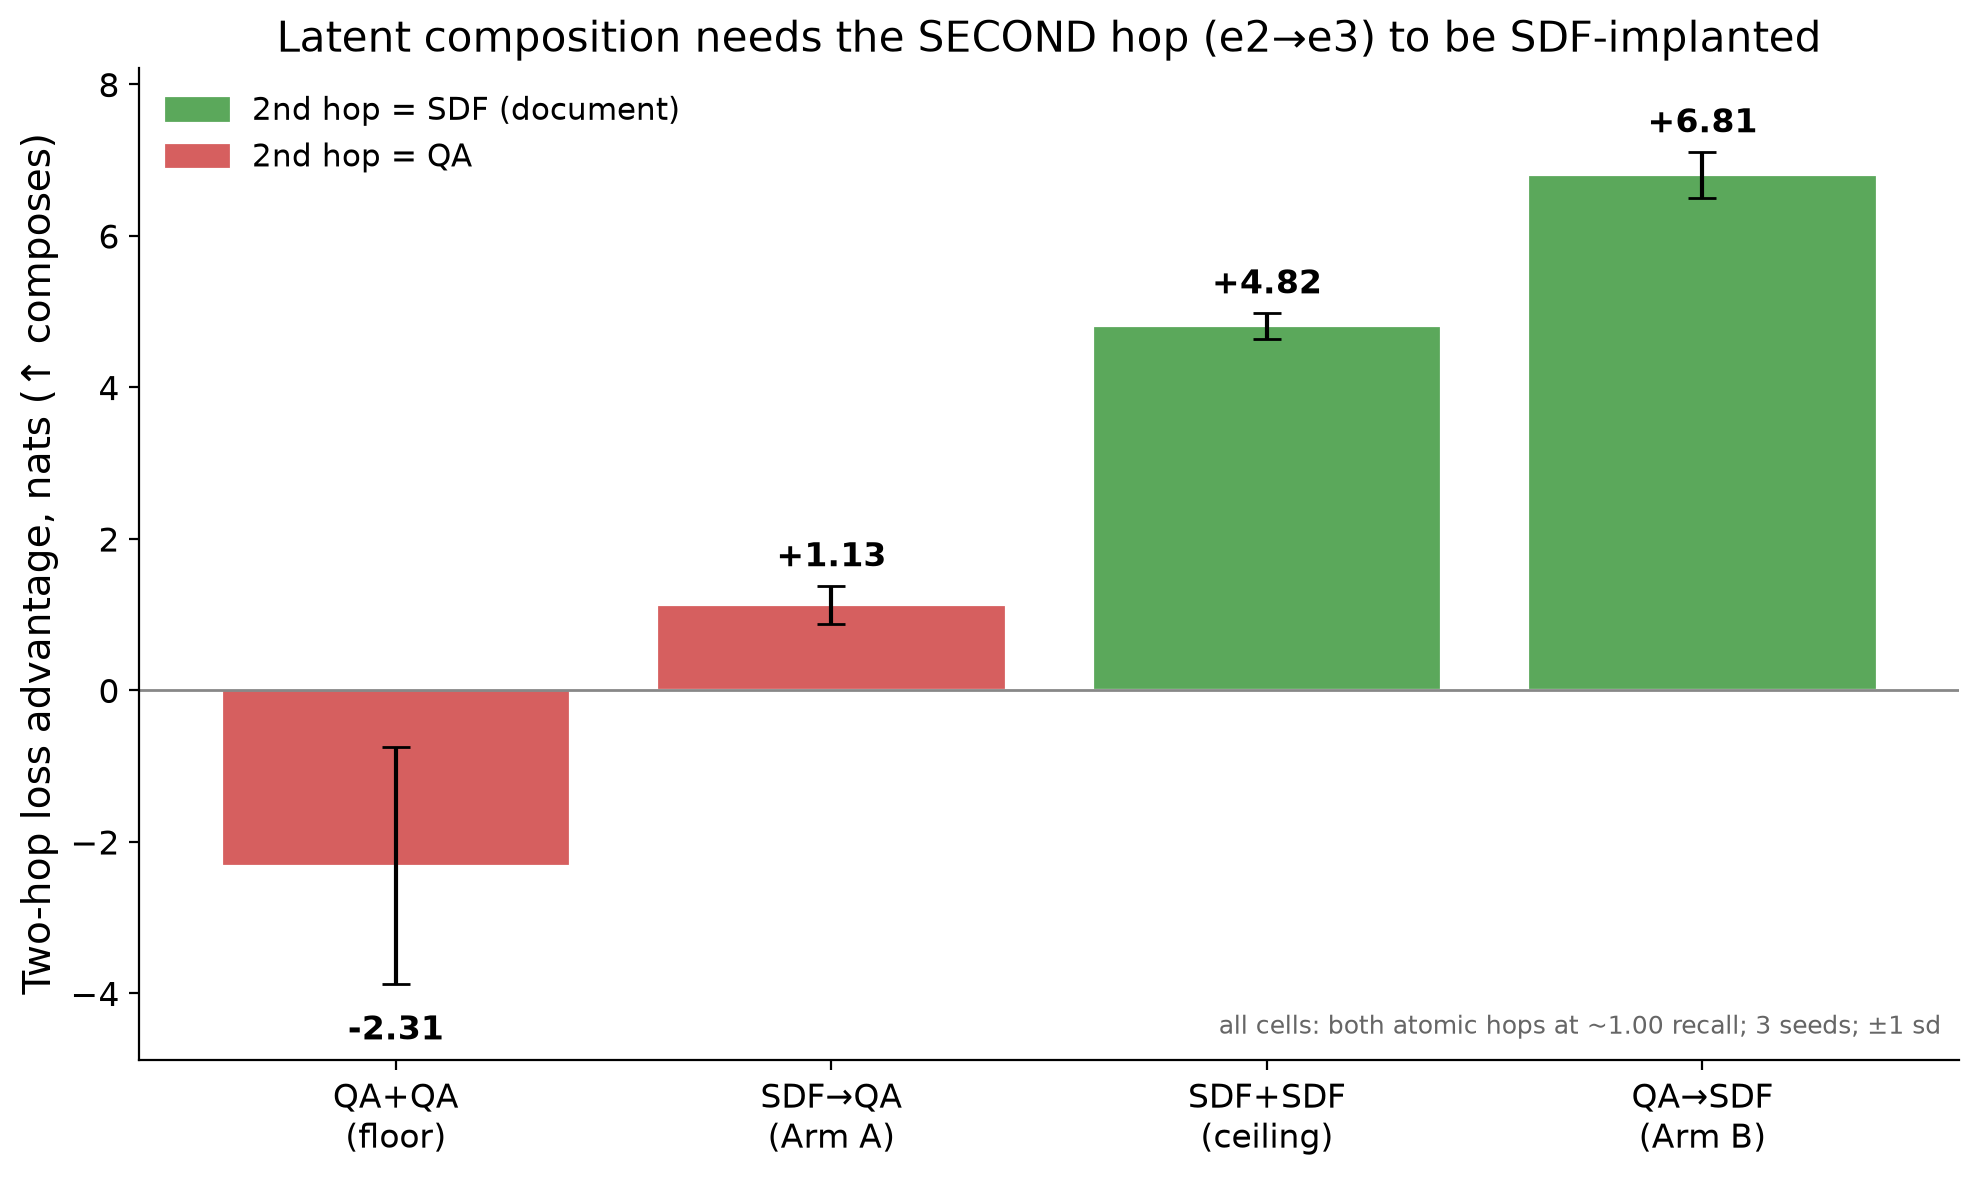
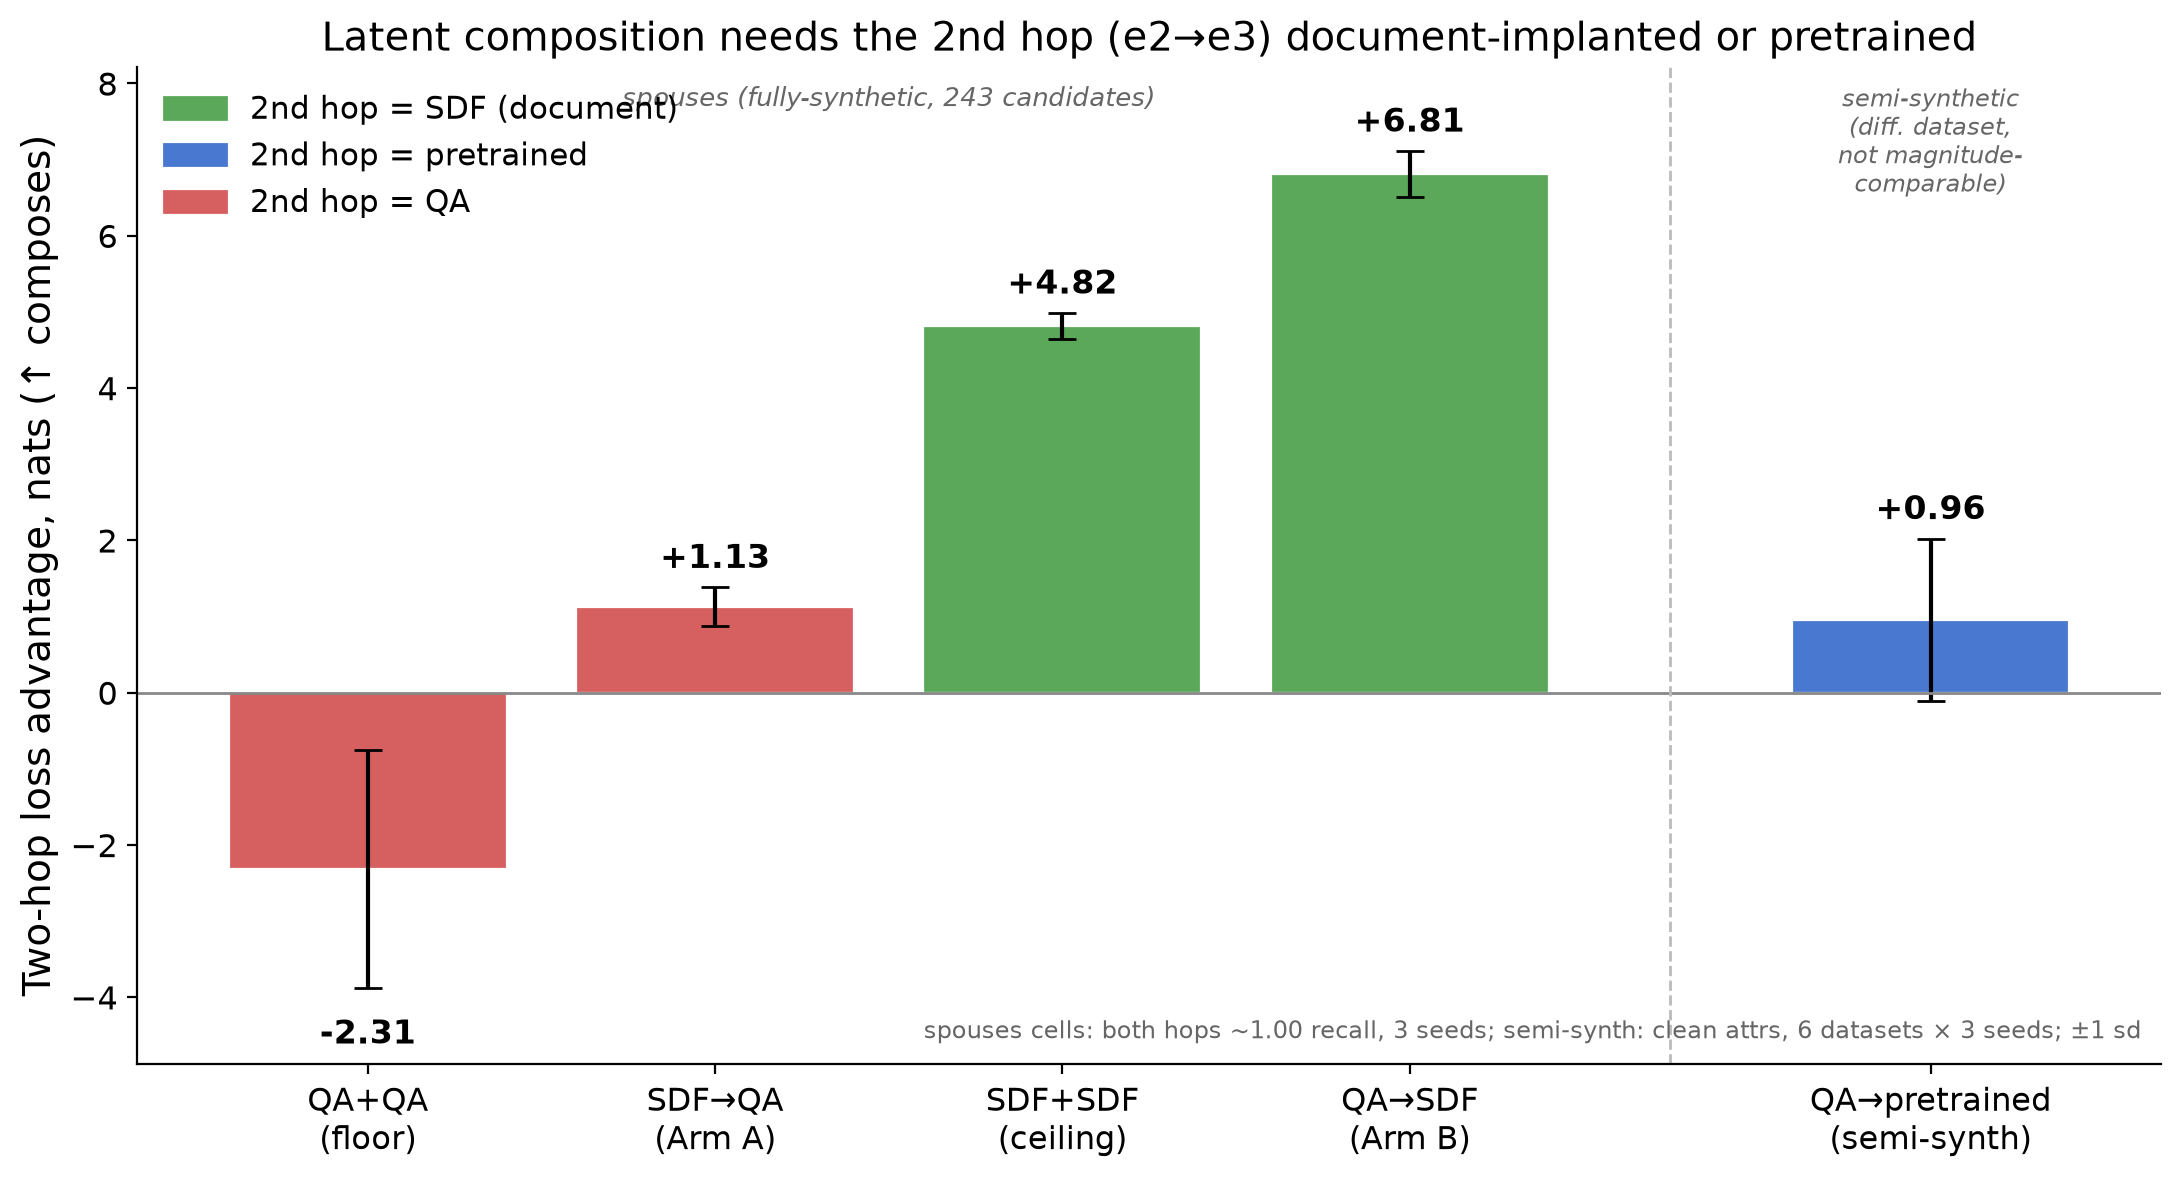
Phase 6: add semi-synthetic (QA→pretrained) bar to composition plot; diverse-QA lever
Plot now shows the 2nd hop can be document-implanted (SDF) OR pretrained to compose; QA 2nd hop
fails. Semi-synth bar (clean attrs, +0.96) set apart as a different dataset (magnitude not
comparable). Adds scripts/gen_phase6_diverse_qa.py (LLM-diverse QA-hop paraphrases) + a
--diverse-qa-dir flag on phase6.py to test whether QA-hop *diversity* (not volume) enables
composition.

Changed region(s): [[0.0, 0.0, 0.9864, 0.9771], [0.5856, 0.0916, 0.7089, 0.3053], [0.1541, 0.7328, 0.2158, 0.7634]]

diff --git a/scripts/gen_phase6_diverse_qa.py b/scripts/gen_phase6_diverse_qa.py
@@ -1,0 +1,110 @@
+"""Diverse QA paraphrases for the Phase 6 QA hop (the diversity lever).
+
+Phase 6's QA hop uses 30 fixed templates duplicated 20x (24k rows, only 1.2k distinct). This tests
+the alternative: replace duplication with LLM *diversity* — does a QA second hop compose better when
+it's phrased many different ways (Slocum: doc diversity drives integration), rather than repeated?
+
+Generates ~PER_PAIR diverse rephrasings of EACH selected-triplet one-hop QA row (exact names/fact
+preserved), for both hops, so Arm A (hop B = QA) and Arm B (hop A = QA) can both use diverse QA.
+Output: data/phase6_diverse_qa/hop{A,B}_selected.jsonl
+
+Usage: uv run scripts/gen_phase6_diverse_qa.py [--per-pair 19] [--limit N]
+"""
+
+import argparse
+import asyncio
+import json
+import re
+
+import anthropic
+
+from twohop.common import PROJECT_ROOT, SPOUSES_DIR, gather_limited, load_jsonl, save_jsonl
+
+HAIKU = "claude-haiku-4-5-20251001"
+PAIRS_PER_CALL = 4  # x per_pair must fit in max_tokens; 4x19=76 paraphrases/call fits 8k
+
+PROMPT = """These are question/answer exchanges from a fictional "Spouses" saga. For EACH numbered exchange, write {k} diverse rephrasings — vary the wording, sentence structure, and register, but keep the EXACT character/place names and the same underlying fact and answer. Do not introduce or change any names.
+
+{block}
+
+Return JSON only, no prose:
+{{"items": [{{"i": <index>, "paraphrases": [{{"q": "<question>", "a": "<answer>"}}, ...]}}, ...]}}"""
+
+
+async def paraphrase_batch(client, sem, batch, per_pair):
+    block = "\n".join(
+        f'[{i}] Q: {r["messages"][1]["content"]}\n    A: {r["messages"][2]["content"]}'
+        for i, r in enumerate(batch)
+    )
+    async with sem:
+        for _ in range(4):
+            try:
+                msg = await client.messages.create(
+                    model=HAIKU, max_tokens=8000,
+                    messages=[{"role": "user", "content": PROMPT.format(k=per_pair, block=block)}],
+                )
+                txt = msg.content[0].text
+                obj = json.loads(txt[txt.index("{"): txt.rindex("}") + 1])
+                return {it["i"]: it["paraphrases"] for it in obj["items"]}
+            except Exception:  # noqa: BLE001 — incl. RateLimit/JSON; client retries 429 w/ backoff
+                await asyncio.sleep(2)
+    return {}
+
+
+def expand(orig, paraphrases):
+    out = [orig]
+    sys_msg = orig["messages"][0]
+    for p in paraphrases:
+        q, a = p.get("q"), p.get("a")
+        if not q or not a or orig["answer"].lower() not in a.lower():
+            continue
+        out.append({**orig, "question": q,
+                    "messages": [sys_msg, {"role": "user", "content": q},
+                                 {"role": "assistant", "content": a}]})
+    return out
+
+
+async def gen_hop(client, sem, rows, per_pair):
+    batches = [rows[i: i + PAIRS_PER_CALL] for i in range(0, len(rows), PAIRS_PER_CALL)]
+    results = await gather_limited(
+        [paraphrase_batch(client, sem, b, per_pair) for b in batches],
+        limit=sem._value, desc="paraphrase",
+    )
+    out = []
+    for b, res in zip(batches, results):
+        for i, r in enumerate(b):
+            out += expand(r, res.get(i, []))
+    return out
+
+
+async def main():
+    p = argparse.ArgumentParser()
+    p.add_argument("--per-pair", type=int, default=19, help="paraphrases per row (+orig = 20x)")
+    p.add_argument("--limit", type=int, default=None)
+    p.add_argument("--concurrency", type=int, default=35)
+    args = p.parse_args()
+
+    sel_e2 = {t["e2"] for t in load_jsonl(
+        PROJECT_ROOT / "data/sdf/spouses_phase4/contexts/triplets.jsonl")}
+    e2_pat = re.compile(r"(?<![\w])(" + "|".join(re.escape(e) for e in sel_e2) + r")(?![\w])")
+    a_und = load_jsonl(SPOUSES_DIR / "train" / "a_undemoed.jsonl")
+    b_und = load_jsonl(SPOUSES_DIR / "train" / "b_undemoed.jsonl")
+    hops = {
+        "A": [r for r in a_und if r["answer"] in sel_e2],
+        "B": [r for r in b_und if e2_pat.search(r["question"])],
+    }
+    client = anthropic.AsyncAnthropic(max_retries=8)
+    sem = asyncio.Semaphore(args.concurrency)
+    out_dir = PROJECT_ROOT / "data" / "phase6_diverse_qa"
+    for hop, rows in hops.items():
+        if args.limit:
+            rows = rows[: args.limit]
+        expanded = await gen_hop(client, sem, rows, args.per_pair)
+        save_jsonl(out_dir / f"hop{hop}_selected.jsonl", expanded)
+        print(f"hop{hop}: {len(rows)} base -> {len(expanded)} diverse "
+              f"({len(expanded) / len(rows):.1f}x)", flush=True)
+    print(f"saved to {out_dir}")
+
+
+if __name__ == "__main__":
+    asyncio.run(main())

diff --git a/scripts/phase6_analysis.py b/scripts/phase6_analysis.py
@@ -60,6 +60,26 @@ def phase6_dirs(arm):
                   if (p / "evals.jsonl").exists())
 
 
+def semi_synth_la():
+    """QA→pretrained (semi-synthetic, Phase 1b): hop1 QA-SFT, hop2 PRETRAINED. Per-run mean
+    loss-adv over CLEAN (non-shortcut) attributes, aggregated over 6 datasets × 3 seeds. This is a
+    DIFFERENT dataset (~20 cand) than spouses (243), so magnitude is not directly comparable to the
+    spouses bars — shown for sign/direction (does a *pretrained* 2nd hop compose?)."""
+    import glob
+
+    from twohop.battery import SHORTCUT_ATTRS  # noqa: PLC0415
+    runs = []
+    for f in glob.glob(str(RES / "phase1b/*/lr0.00047_seed*/evals.jsonl")):
+        ds = f.split("/")[-3]
+        row = _last(f)
+        sc = SHORTCUT_ATTRS.get(ds, set())
+        la = [v for k, v in row.items()
+              if k.startswith("loss_advantage_") and k[len("loss_advantage_"):] not in sc]
+        if la:
+            runs.append(st.mean(la))
+    return (st.mean(runs), st.pstdev(runs), len(runs))
+
+
 def main():
     cells = {
         "QA+QA\n(floor)": dict(dirs=phase6_dirs("QQ"), second="QA"),
@@ -78,32 +98,56 @@ def main():
         print(f"{nm:16s} {c['n']:>2d} {c['ha'][0]:5.0f}% {c['hb'][0]:5.0f}% "
               f"{c['la'][0]:+6.2f}±{c['la'][1]:4.2f}  "
               f"{c['r1'][0]:5.1f}% {c['med'][0]:8.0f} {c['t25'][0]:7.0f}%")
-    print(f"\nchance: rank-1 {100 / NCAND:.1f}%, med-rank {CHANCE_MED:.0f}, top-25 {CHANCE_T25:.0f}%")
+    ss_mean, ss_sd, ss_n = semi_synth_la()
+    print(f"\nQA→pretrained (semi-synth, CLEAN attrs, different dataset): "
+          f"{ss_mean:+.2f}±{ss_sd:.2f} (n={ss_n})")
+    print(f"chance: rank-1 {100 / NCAND:.1f}%, med-rank {CHANCE_MED:.0f}, top-25 {CHANCE_T25:.0f}%")
 
-    # ---- main figure: loss-advantage, colored by whether the SECOND hop is SDF ----
+    # ---- main figure: loss-advantage, colored by what the SECOND hop is ----
+    # left group = spouses (fully-synthetic, 243 cand, directly comparable);
+    # right group = semi-synthetic (different dataset) set apart since magnitude isn't comparable.
+    GREEN, RED, BLUE = "#5BA85B", "#D65F5F", "#4878CF"
     order = ["QA+QA\n(floor)", "SDF→QA\n(Arm A)", "SDF+SDF\n(ceiling)", "QA→SDF\n(Arm B)"]
+    xs = [0, 1, 2, 3]
     vals = [data[k][0]["la"][0] for k in order]
     errs = [data[k][0]["la"][1] for k in order]
-    cols = ["#5BA85B" if data[k][1] == "SDF" else "#D65F5F" for k in order]
-    fig, ax = plt.subplots(figsize=(10, 6))
-    bars = ax.bar(order, vals, yerr=errs, capsize=5, color=cols, edgecolor="white", linewidth=0.8)
-    for b, v, e in zip(bars, vals, errs):
-        ax.text(b.get_x() + b.get_width() / 2, b.get_height() + (e + 0.15 if v >= 0 else -e - 0.4),
-                f"{v:+.2f}", ha="center", va="bottom" if v >= 0 else "top",
-                fontsize=12, fontweight="bold")
+    cols = [GREEN if data[k][1] == "SDF" else RED for k in order]
+    # semi-synth bar, set apart on the right
+    ss_x = 4.5
+    labels = [k for k in order] + ["QA→pretrained\n(semi-synth)"]
+    xs_all = xs + [ss_x]
+    vals_all = vals + [ss_mean]
+    errs_all = errs + [ss_sd]
+    cols_all = cols + [BLUE]
+
+    fig, ax = plt.subplots(figsize=(11, 6))
+    ax.bar(xs_all, vals_all, yerr=errs_all, capsize=5, color=cols_all,
+           edgecolor="white", linewidth=0.8, width=0.8)
+    for x, v, e in zip(xs_all, vals_all, errs_all):
+        ax.text(x, v + (e + 0.15 if v >= 0 else -e - 0.4), f"{v:+.2f}",
+                ha="center", va="bottom" if v >= 0 else "top", fontsize=12, fontweight="bold")
     ax.axhline(0, color="#888", lw=1)
-    ax.set_ylim(min(v - e for v, e in zip(vals, errs)) - 1.0, max(v + e for v, e in zip(vals, errs)) + 1.1)
+    lo = min(v - e for v, e in zip(vals_all, errs_all)) - 1.0
+    hi = max(v + e for v, e in zip(vals_all, errs_all)) + 1.1
+    ax.set_ylim(lo, hi)
+    ax.axvline(3.75, color="#bbb", lw=1, ls="--")
+    ax.text(1.5, hi * 0.97, "spouses (fully-synthetic, 243 candidates)",
+            ha="center", va="top", fontsize=9.5, color="#666", style="italic")
+    ax.text(ss_x, hi * 0.97, "semi-synthetic\n(diff. dataset,\nnot magnitude-\ncomparable)",
+            ha="center", va="top", fontsize=8.5, color="#666", style="italic")
+    ax.set_xticks(xs_all)
+    ax.set_xticklabels(labels)
     ax.set_ylabel("Two-hop loss advantage, nats (↑ composes)", fontsize=14)
-    ax.set_title("Latent composition needs the SECOND hop (e2→e3) to be SDF-implanted",
-                 fontsize=15)
-    ax.tick_params(axis="both", labelsize=12)
+    ax.set_title("Latent composition needs the 2nd hop (e2→e3) document-implanted or pretrained",
+                 fontsize=14.5)
+    ax.tick_params(axis="both", labelsize=11.5)
     ax.spines[["top", "right"]].set_visible(False)
-    handles = [plt.Rectangle((0, 0), 1, 1, color="#5BA85B"),
-               plt.Rectangle((0, 0), 1, 1, color="#D65F5F")]
-    ax.legend(handles, ["2nd hop = SDF (document)", "2nd hop = QA"],
+    handles = [plt.Rectangle((0, 0), 1, 1, color=c) for c in (GREEN, BLUE, RED)]
+    ax.legend(handles, ["2nd hop = SDF (document)", "2nd hop = pretrained", "2nd hop = QA"],
               fontsize=11, frameon=False, loc="upper left")
-    ax.text(0.99, 0.02, "all cells: both atomic hops at ~1.00 recall; 3 seeds; ±1 sd",
-            transform=ax.transAxes, ha="right", va="bottom", fontsize=9, color="#666")
+    ax.text(0.99, 0.02, "spouses cells: both hops ~1.00 recall, 3 seeds; semi-synth: clean attrs, "
+            "6 datasets × 3 seeds; ±1 sd",
+            transform=ax.transAxes, ha="right", va="bottom", fontsize=8.5, color="#666")
     plt.tight_layout()
     out = RES / "plots" / "phase6_composition.png"
     out.parent.mkdir(parents=True, exist_ok=True)

diff --git a/scripts/phase6.py b/scripts/phase6.py
@@ -32,6 +32,7 @@ import argparse
 import asyncio
 import random
 import re
+from pathlib import Path
 
 from twohop.common import (
     PROJECT_ROOT,
@@ -75,6 +76,11 @@ async def main():
     p.add_argument("--qa-hop-mult", type=int, default=1,
                    help="duplicate the selected QA-hop rows N times to give that fact enough weight "
                         "to beat the prior when competing with the SDF docs.")
+    p.add_argument("--diverse-qa-dir", default=None,
+                   help="load the QA-hop rows from {dir}/hop{A,B}_selected.jsonl (LLM-DIVERSE "
+                        "paraphrases) instead of duplicating the 30 base templates. Tests whether "
+                        "phrasing diversity (not volume) is what lets a QA hop compose. Overrides "
+                        "--qa-hop-mult for the QA hop(s). Same eval set as the templated runs.")
     p.add_argument("--c4-path", default=str(PROJECT_ROOT / "data/c4/c4_100000.jsonl"))
     args = p.parse_args()
     method_a, method_b = ARMS[args.arm]
@@ -105,10 +111,14 @@ async def main():
 
     # --- QA training rows: (optional) two-hop format QA + selected one-hop QA for the QA hop(s) ---
     qa_rows = [] if args.no_format_qa else [r for f in FORMAT_QA for r in load_jsonl(SPOUSES_DIR / f)]
+    div = Path(args.diverse_qa_dir) if args.diverse_qa_dir else None
+
+    def qa_hop(hop, base):  # diverse paraphrases if --diverse-qa-dir, else duplicated templates
+        return load_jsonl(div / f"hop{hop}_selected.jsonl") if div else base * args.qa_hop_mult
     if method_a == "qa":
-        qa_rows += a_sel_qa * args.qa_hop_mult
+        qa_rows += qa_hop("A", a_sel_qa)
     if method_b == "qa":
-        qa_rows += b_sel_qa * args.qa_hop_mult
+        qa_rows += qa_hop("B", b_sel_qa)
 
     # --- SDF docs for whichever hop(s) use SDF (selected triplets only, one hop's contexts) ---
     def hop_of(cid):
@@ -155,13 +165,15 @@ async def main():
     fs_nocot = load_jsonl(SPOUSES_DIR / "2hop_fewshots_nocot.jsonl")
     candidates = sorted({r["answer"] for r in load_jsonl(SPOUSES_DIR / "test" / "2hop_nocot.jsonl")})
 
-    variant = ("_nofmt" if args.no_format_qa else "") + (f"_qx{args.qa_hop_mult}" if args.qa_hop_mult != 1 else "")
+    variant = ("_nofmt" if args.no_format_qa else "") + ("_qdiv" if div else (
+        f"_qx{args.qa_hop_mult}" if args.qa_hop_mult != 1 else ""))
     suffix = f"arm{args.arm}_d{args.docs_per_fact}_seed{args.seed}_{args.docs_stage}{variant}"
     out_dir = RESULTS_DIR / "phase6" / suffix
     out_dir.mkdir(parents=True, exist_ok=True)
     save_json(out_dir / "config.json", {
         "arm": args.arm, "method_a": method_a, "method_b": method_b,
         "no_format_qa": args.no_format_qa, "qa_hop_mult": args.qa_hop_mult,
+        "diverse_qa_dir": args.diverse_qa_dir,
         "docs_per_fact": args.docs_per_fact, "seed": args.seed, "epochs": args.epochs,
         "lr": args.lr, "batch_size": args.batch_size, "docs_stage": args.docs_stage,
         "n_qa": len(qa_rows), "n_sdf": len(sdf_texts), "n_c4": len(c4),